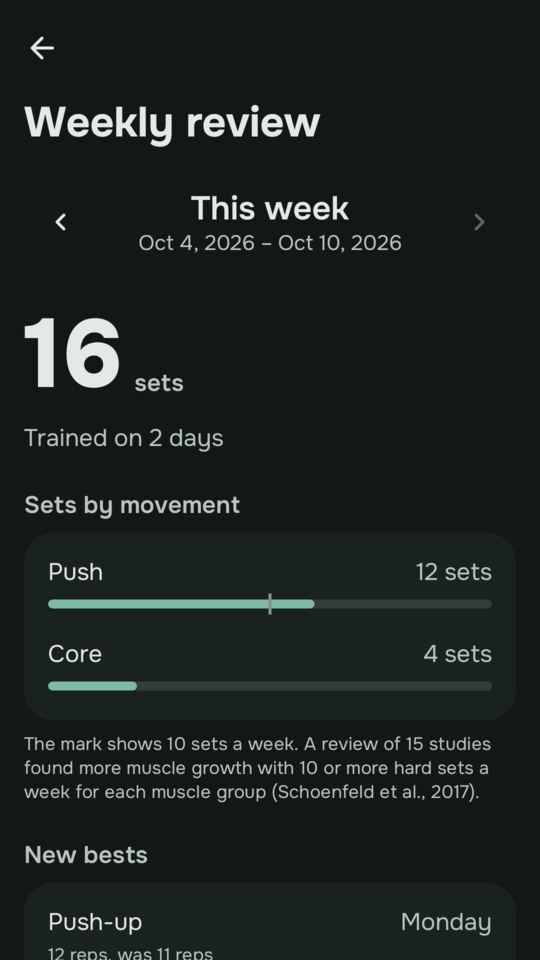
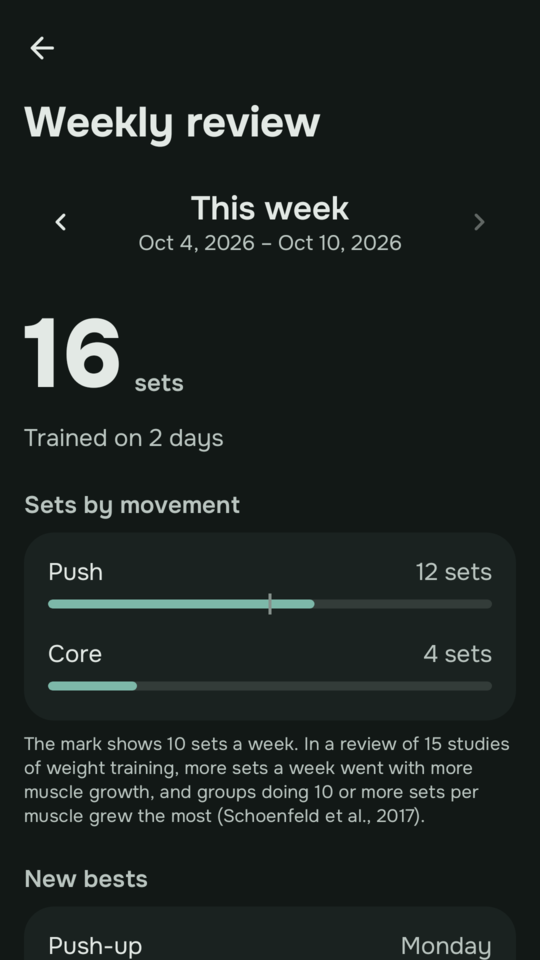
docs: record the research the app cites and correct the weekly review's claim
docs/wiki/Credits.md gains "Research the app cites": for the 10-set mark,
the full citation of Schoenfeld, Ogborn and Krieger (2017) with its DOI,
what the paper found and did not find, and the app's exact wording.

Checked against the paper, the old sentence overstated it. The firm
result is that more weekly sets went with more growth; the 10+ group
grew most, but that comparison was a trend (P = 0.074) and the paper
studied weight training, not "hard sets". The sentence now says so in
all ten languages.

AGENTS.md: a string that cites research is recorded in Credits.md in
the same change; CitedResearchTest fails when an "et al." string is not
quoted there word for word.

Changed region(s): [[0.0296, 0.75, 0.9481, 1.0], [0.7407, 0.9375, 0.9185, 1.0]]

diff --git a/app/src/test/java/io/github/gonbei774/calisthenicsmemory/CitedResearchTest.kt b/app/src/test/java/io/github/gonbei774/calisthenicsmemory/CitedResearchTest.kt
@@ -1,0 +1,25 @@
+package io.github.gonbei774.calisthenicsmemory
+
+import org.junit.Assert.assertTrue
+import org.junit.Test
+import java.io.File
+
+/**
+ * Every English string that cites research ("et al.") is recorded word for word in
+ * docs/wiki/Credits.md, with its source and what the source does and does not show (AGENTS.md,
+ * "Strings and translations"). Rewording a claim in the app without updating the record fails here.
+ */
+class CitedResearchTest {
+    private val strings = File("src/main/res/values/strings.xml").let { if (it.exists()) it else File("app/src/main/res/values/strings.xml") }
+    private val credits = File("../docs/wiki/Credits.md").let { if (it.exists()) it else File("docs/wiki/Credits.md") }
+
+    @Test fun `every cited claim is recorded in the credits`() {
+        val citing = Regex("""<string name="([^"]+)">([^<]*et al\.[^<]*)</string>""").findAll(strings.readText())
+            .map { it.groupValues[1] to it.groupValues[2].replace("\\'", "'") }
+            .toList()
+        assertTrue("No string cites research; this test then guards nothing", citing.isNotEmpty())
+        val record = credits.readText()
+        val missing = citing.filter { (key, text) -> "\"$text\"" !in record || "`$key`" !in record }.map { it.first }
+        assertTrue("Cited in the app but not recorded word for word in docs/wiki/Credits.md: $missing", missing.isEmpty())
+    }
+}

diff --git a/docs/wiki/Credits.md b/docs/wiki/Credits.md
@@ -29,3 +29,25 @@ Not used:
 ## Sounds
 
 The workout sounds are original, synthesised by `scripts/sounds/generate_workout_sounds.py`.
+
+## Research the app cites
+
+Every claim the app attributes to research is listed here: the source, what it found and did not find, and the exact wording the app uses.
+
+### 10 sets a week (weekly review)
+
+**Source.** Schoenfeld BJ, Ogborn D, Krieger JW. Dose-response relationship between weekly resistance training volume and increases in muscle mass: a systematic review and meta-analysis. *Journal of Sports Sciences* 2017;35(11):1073–1082. [doi:10.1080/02640414.2016.1210197](https://doi.org/10.1080/02640414.2016.1210197) (published online 19 July 2016).
+
+**What it found.**
+
+- 15 studies with 34 training groups. All used weight training at 65 % of the one-repetition maximum or more, for at least 6 weeks. 12 of the 15 studies had untrained participants.
+- More weekly sets per muscle went with more muscle growth: each extra weekly set added about 0.37 % to the gain (P = 0.002).
+- Grouped by weekly sets per muscle, mean gains were 5.4 % for fewer than 5 sets, 6.6 % for 5 to 9 and 9.8 % for 10 or more (Table 2). The authors conclude that "greater muscular development is achieved by performing at least 10 weekly sets per muscle group".
+
+**What it did not find.**
+
+- The three-group comparison was a trend, not statistically significant (P = 0.074). With one influential study removed, the 10-or-more group no longer had an advantage (Table 3).
+- There was too little data above 12 sets a week to say where the benefit stops.
+- The studies used external loads, not bodyweight exercises, and mostly untrained people.
+
+**What the app says.** On the weekly review, Push, Pull and Legs show a mark at 10 sets a week, and the line under the rows reads: "The mark shows 10 sets a week. In a review of 15 studies of weight training, more sets a week went with more muscle growth, and groups doing 10 or more sets per muscle grew the most (Schoenfeld et al., 2017)." (string `weekly_review_reference`). The mark is a reference point, not a target: counts under or over it look the same apart from the length of the bar. The app counts every logged set, because it does not yet record how hard a set was, and a movement group such as Push stands in for the muscles it trains.

diff --git a/AGENTS.md b/AGENTS.md
@@ -80,7 +80,9 @@ application ID changed.
 ## Strings and translations
 
 Ten languages ship: English plus `ar de es fr it ja ru uk zh-rCN`. Every user-visible string is a
-resource, counts use `<plurals>`, and English uses sentence case. A new key goes into every
+resource, counts use `<plurals>`, and English uses sentence case. A string that cites research names the
+source, and `docs/wiki/Credits.md` records it in the same change: the full citation, what it found
+and did not find, and the app's exact wording. A new key goes into every
 locale in the same change; mark machine-assisted translations for native review in the release
 log. Arabic is right-to-left: check layouts in RTL.
 
